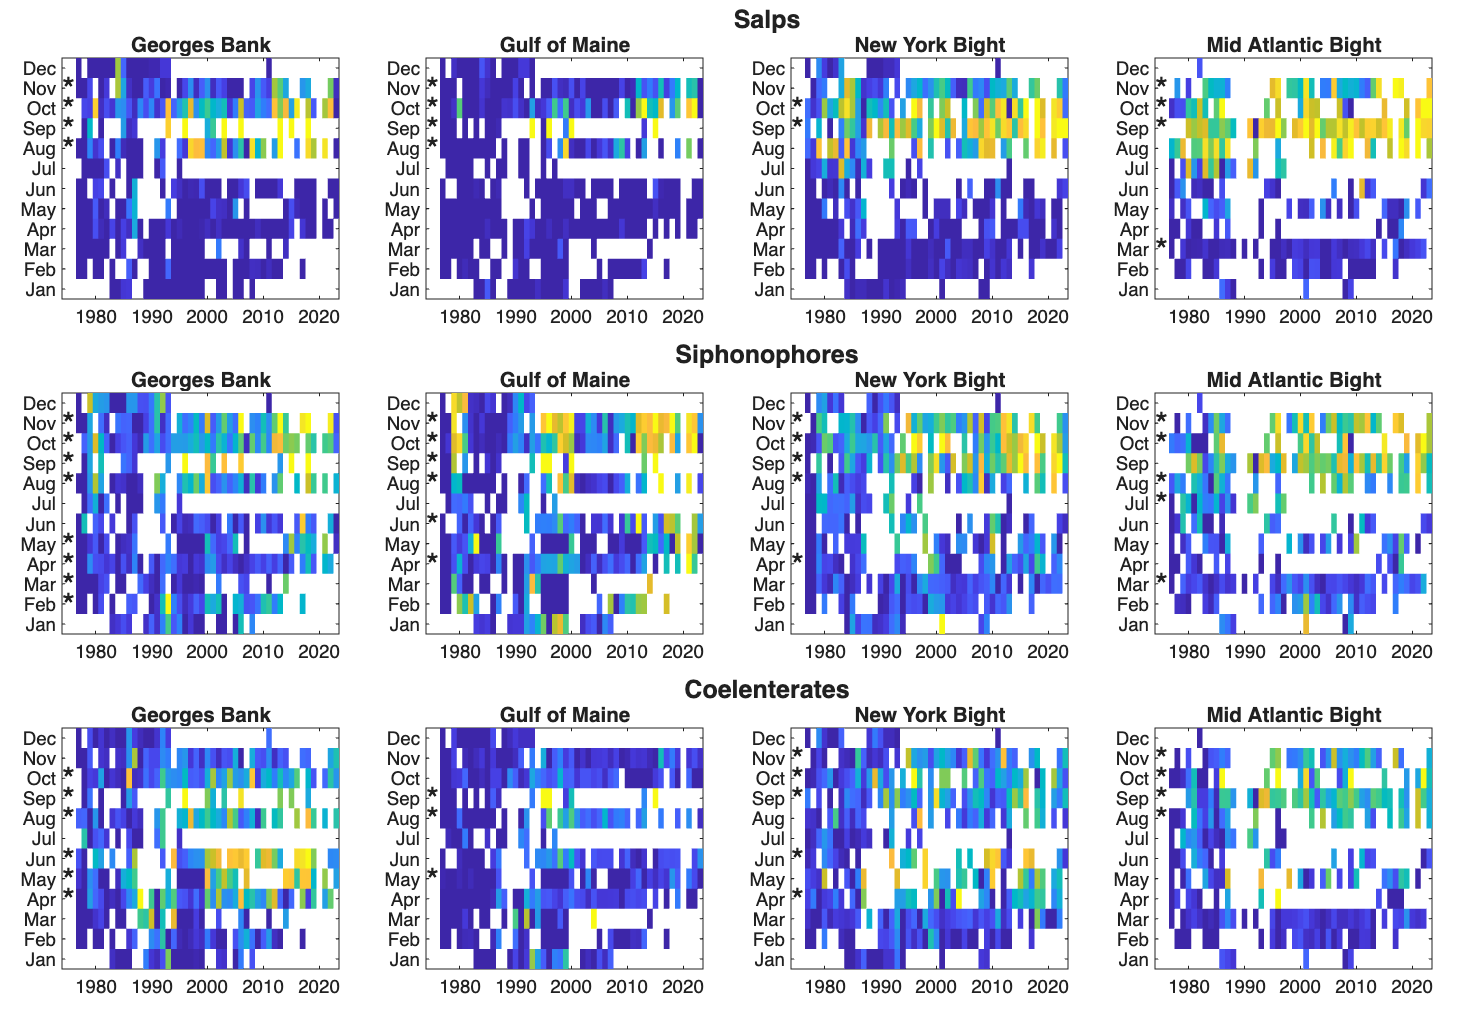
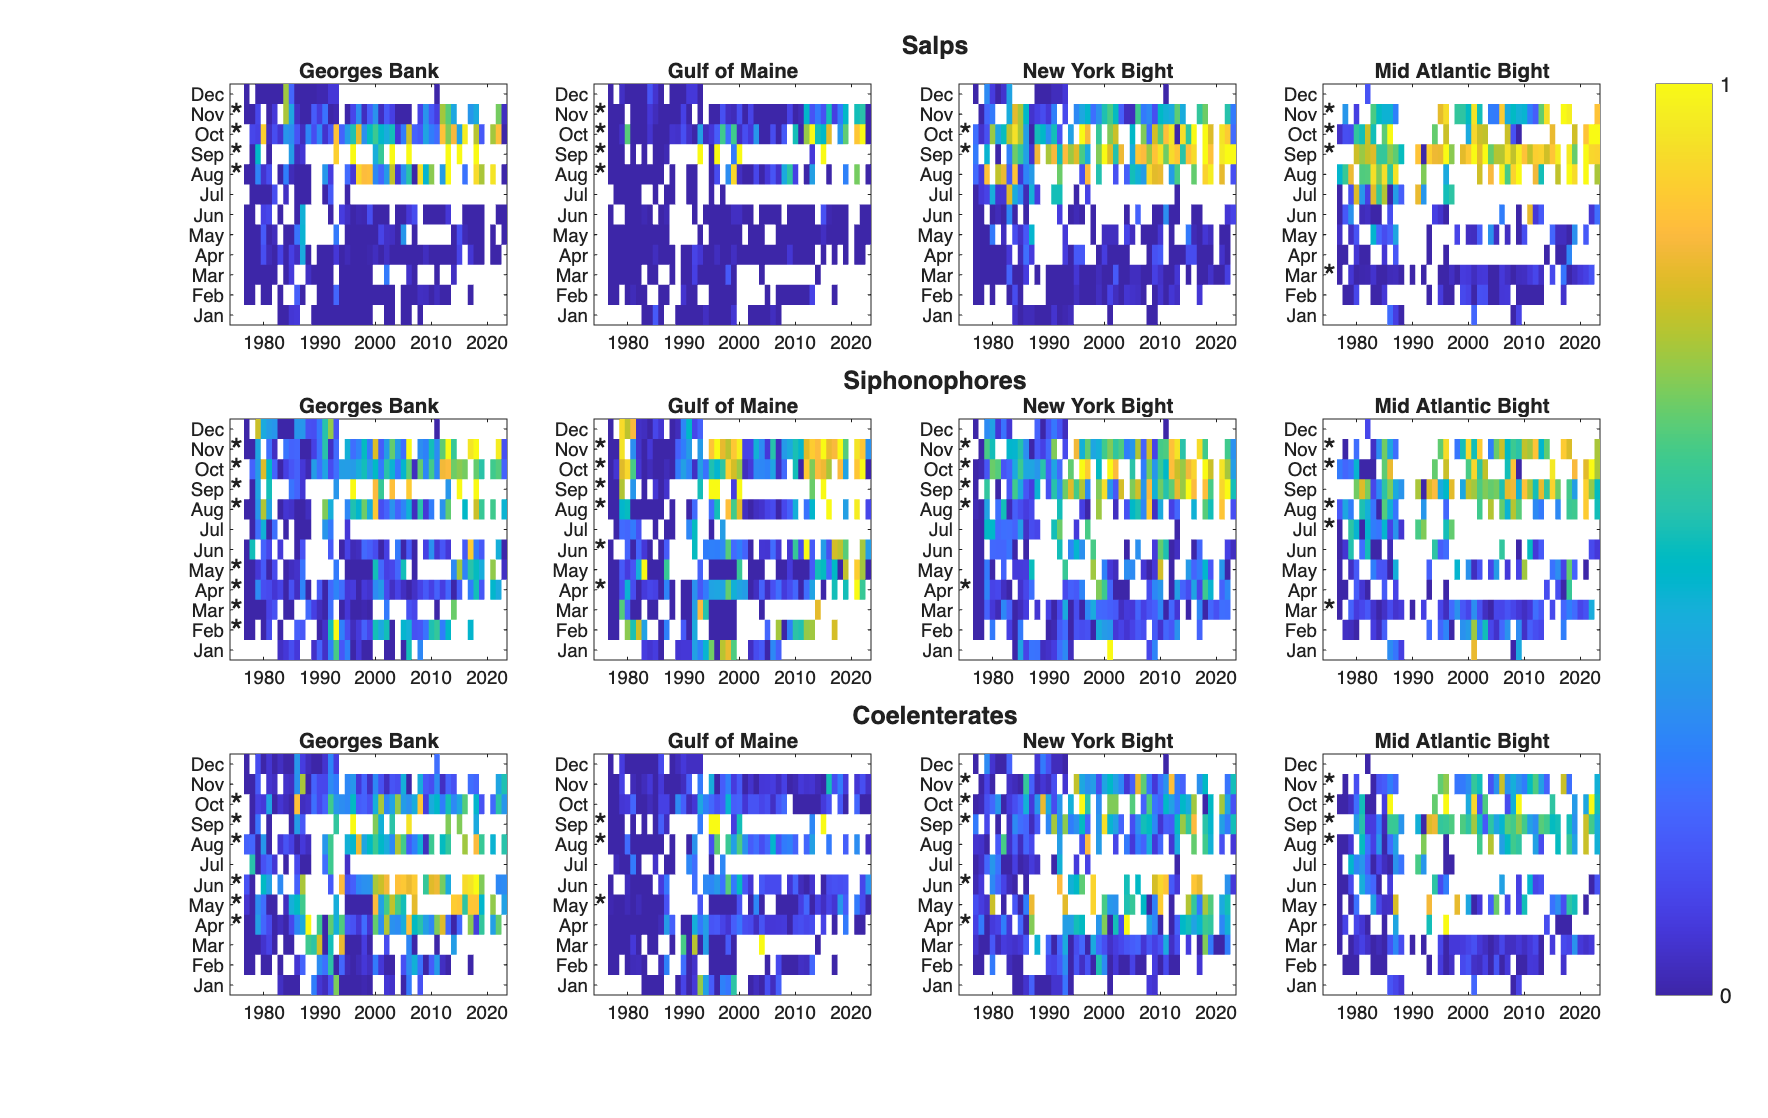
edit figure

diff --git a/manuscript/figscripts/ECOMONjelly01.m b/manuscript/figscripts/ECOMONjelly01.m
@@ -188,3 +188,6 @@ for s=1:length(species)
 end
 
 
+h=subplotcb([0 1]);
+set(h,'ytick',[0 1])
+set(h,'FontSize',10)
